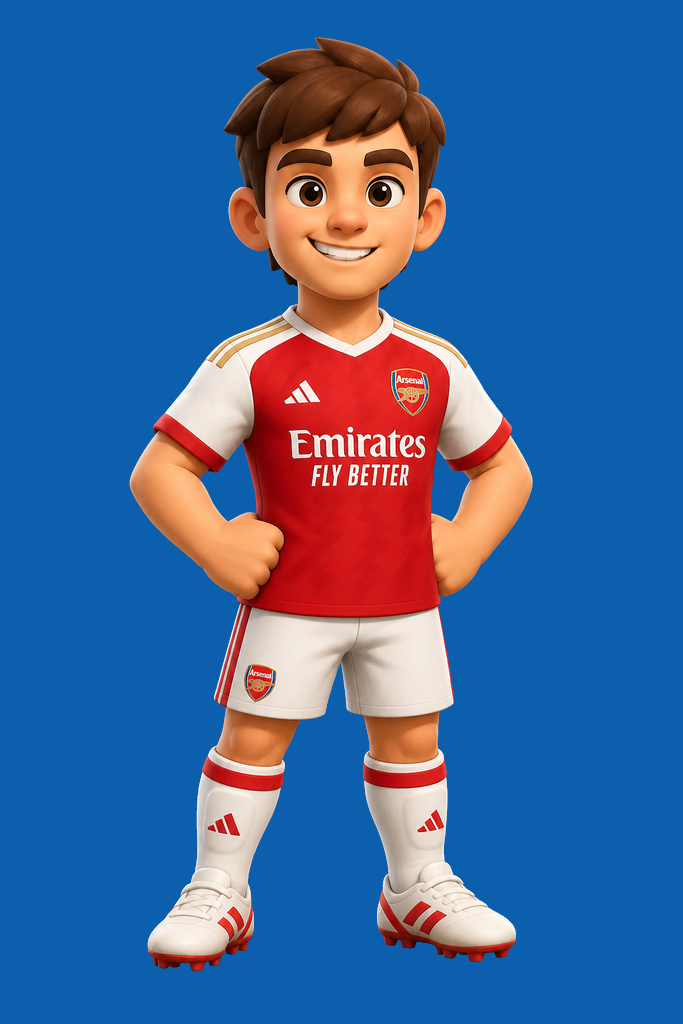
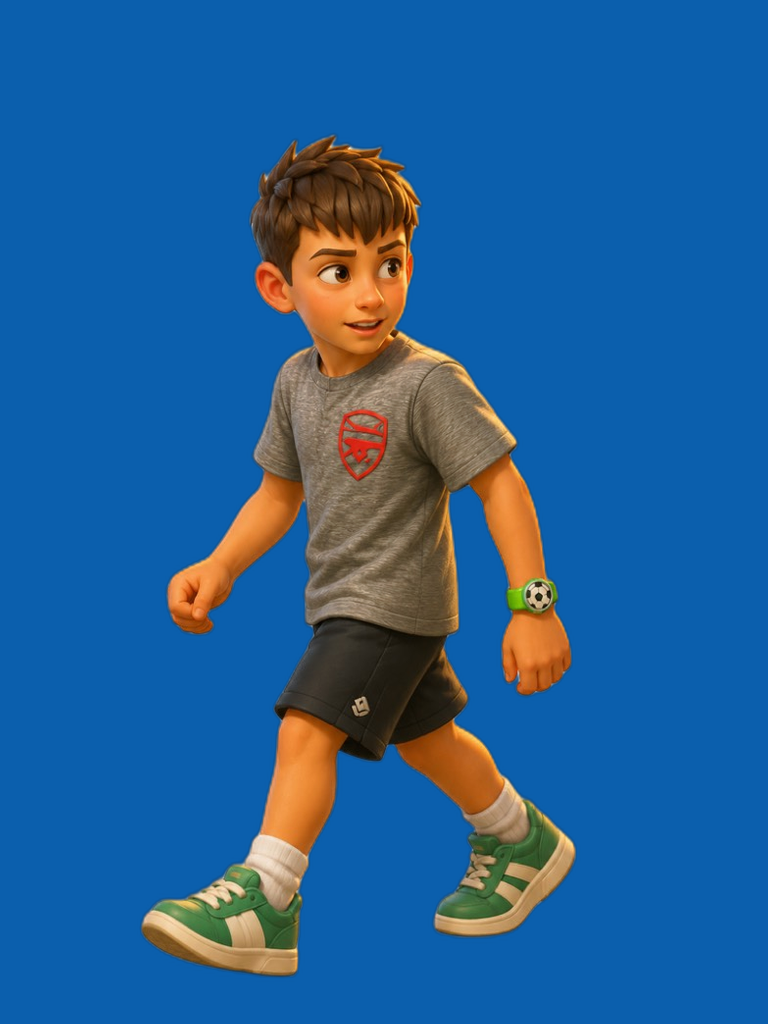
feat(philroyale): update Tristan card and battlefield art
New walking kid photo on shared blue card background; matching troop
front/back for the battlefield.

diff --git a/philroyale/src/characters/TristanModel.tsx b/philroyale/src/characters/TristanModel.tsx
@@ -13,7 +13,7 @@ type Props = {
   portrait?: boolean
 }
 
-/** Tristan — Arsenal kit; stops to lob cheese or cucumbers. */
+/** Tristan — grey tee + green sneakers; stops to lob cheese or cucumbers. */
 export function TristanModel({ anim, facing, attackId, portrait }: Props) {
   return (
     <PhotoTroop
@@ -24,14 +24,11 @@ export function TristanModel({ anim, facing, attackId, portrait }: Props) {
       anim={anim}
       facing={facing}
       portrait={portrait}
-      // Card art already on shared blue — avoid glitchy troop cutout on portraits.
-      objectPos="50% 12%"
+      objectPos="50% 14%"
       portraitFilter="brightness(1) saturate(1.05)"
       gait="run"
-      spriteLegs
+      spriteLegs={false}
       attack={anim === 'attack' && attackId === 'cheeseAndCucumbers' ? 'sundae' : 'none'}
-      legColor="#1a3a7a"
-      shoeColor="#0a0a0c"
     />
   )
 }
